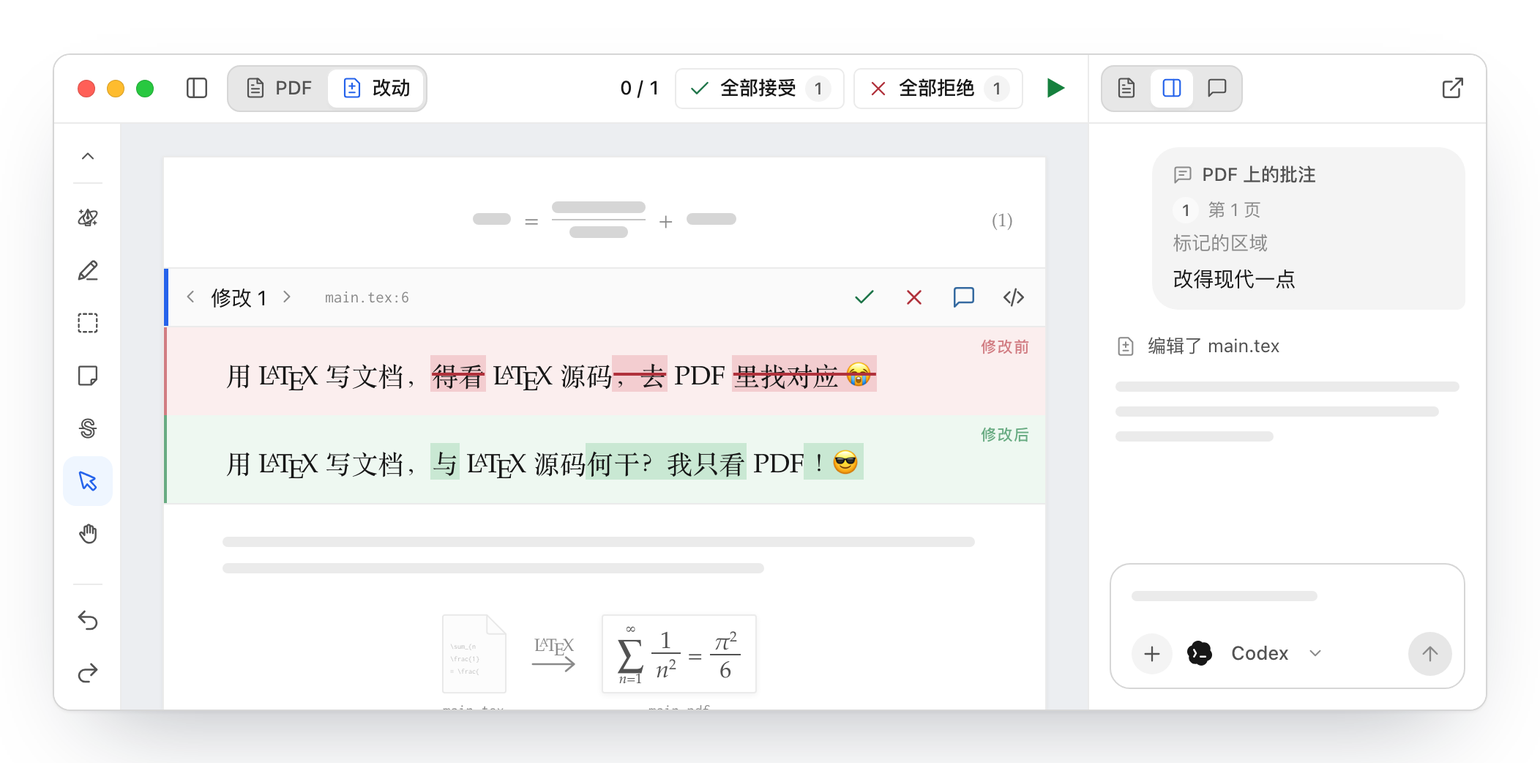
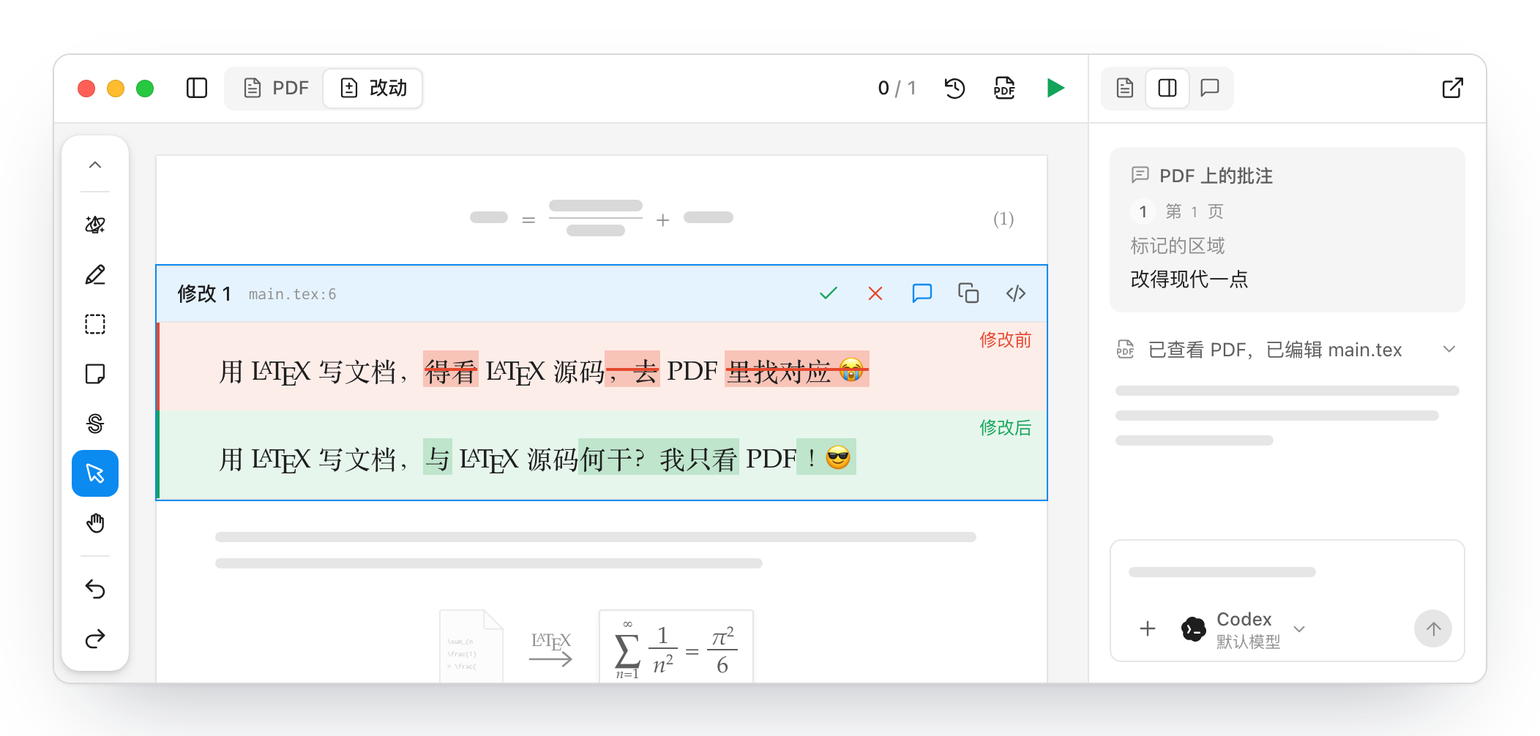
Redraw the homepage windows in the canvas interface (#218)
The homepage's drawn app windows now follow the canvas interface: the workspace palette from theme.css, the marking tools in a floating bar on a grey canvas, segmented controls on a groove, a lone change outlined in blue with its count, history and PDF buttons, notes numbered at their edge, full-width chat messages, folded tool calls and the composer's agent with its model. README showcase images and the social preview are regenerated.

diff --git a/site/style.css b/site/style.css
@@ -56,16 +56,19 @@
 .app-window,.mini{
   /* Use the workspace palette in the page's resolved color scheme, including
      system changes and the no-script page. PDF ink stays softer in the dark. */
-  --bg:light-dark(#ffffff,#26272b);--bg-subtle:light-dark(#fafafa,#2a2b2f);--bg-muted:light-dark(#f4f4f4,#303135);--bg-hover:light-dark(#efefef,#37383c);--bg-active:light-dark(#e7e7e7,#404145);
-  --canvas:light-dark(#eceef1,#1e1f22);--line:light-dark(#ebebeb,#38393e);--line-strong:light-dark(#d6d6d6,#4b4c52);--line-hover:light-dark(#c4c4c4,#63646b);
-  --text:light-dark(#171717,#ececee);--text-2:light-dark(#525252,#c2c3c9);--text-3:light-dark(#8a8a8a,#9c9da5);
-  --accent:light-dark(#2563eb,#8ab4ff);--accent-hover:light-dark(#1d4ed8,#b2ceff);--accent-soft:light-dark(#eff6ff,#2b3651);--accent-line:light-dark(#bfdbfe,#445c85);
-  --button:#2563eb;--button-hover:#1d4ed8;
-  --green:light-dark(#15803d,#7bd5a0);--red:light-dark(#b91c1c,#ff9696);--green-soft:light-dark(#f0fdf4,#243a2f);--red-soft:light-dark(#fef2f2,#46292e);
-  --pdf-page:light-dark(#ffffff,#292929);--pdf-text:light-dark(#171717,#d6d6d6);
-  --before:light-dark(#fbeeee,#432c30);--before-edge:light-dark(#d17c82,#d18a91);--after:light-dark(#eef8f1,#28392d);--after-edge:light-dark(#68ab82,#7bb58e);
-  --deleted:light-dark(#f3cdd0,#683a42);--inserted:light-dark(#c9e8d3,#355b41);
-  --accept:light-dark(#1d7448,#7bd5a0);--reject:light-dark(#b0313b,#ff9696);--comment:light-dark(#356aa0,#8ab4ff);--run:light-dark(#15803d,#7bd5a0);
+  --bg:light-dark(#ffffff,#2c2c2c);--bg-subtle:light-dark(#fafafa,#303030);--bg-muted:light-dark(#f5f5f5,#383838);--bg-hover:light-dark(#f0f0f0,#383838);--bg-active:light-dark(#e6e6e6,#444444);
+  --canvas:light-dark(#f5f5f5,#1e1e1e);--raised:light-dark(#ffffff,#333333);--thumb:light-dark(#ffffff,#4d4d4d);
+  --line:light-dark(#e6e6e6,#444444);--line-strong:light-dark(#d9d9d9,#4d4d4d);--line-hover:light-dark(#c4c4c4,#5e5e5e);
+  --text:light-dark(#1e1e1e,#f0f0f0);--text-2:light-dark(#5e5e5e,#b3b3b3);--text-3:light-dark(#8f8f8f,#8c8c8c);
+  --accent:light-dark(#0b8af0,#3aa6ff);--accent-hover:light-dark(#0a76d1,#6bbcff);--accent-soft:light-dark(#e5f3ff,#1c3a57);--accent-line:light-dark(#b3dbff,#2e5f8c);
+  --button:#0b8af0;--button-hover:#0a76d1;
+  --green:light-dark(#14a35a,#3fc47c);--red:light-dark(#e5482d,#ff7759);--green-soft:light-dark(#e6f6ec,#1e3a2a);--red-soft:light-dark(#fdede9,#47271f);
+  --shadow-sm:0 0 .5px light-dark(rgb(0 0 0/.18),rgb(0 0 0/.6)),0 3px 8px light-dark(rgb(0 0 0/.1),rgb(0 0 0/.35)),0 1px 3px light-dark(rgb(0 0 0/.1),rgb(0 0 0/.35));
+  --page-shadow:0 0 0 1px rgb(0 0 0/.04),0 1px 3px rgb(0 0 0/.08);
+  --pdf-page:light-dark(#ffffff,#292929);--pdf-text:light-dark(#1e1e1e,#d6d6d6);
+  --before:var(--red-soft);--before-edge:var(--red);--after:var(--green-soft);--after-edge:var(--green);
+  --deleted:light-dark(#f8c4b8,#6e3a2d);--inserted:light-dark(#bfe5cc,#2d5a3e);
+  --accept:var(--green);--reject:var(--red);--comment:var(--accent);--run:var(--green);
   --figure-blue:light-dark(#bed0f4,#5675a8);--figure-orange:light-dark(#f2cfae,#b1835e);
   color:var(--text);
 }
@@ -211,44 +214,40 @@ html:is([lang=zh-CN],[lang=zh-Hant]) .hero .review-page :is(del,ins){white-space
 .app-bar .lights{gap:8px}
 .app-bar .lights i{width:12px;height:12px;box-shadow:inset 0 0 0 .5px rgb(0 0 0/.16)}
 .app-top{display:grid;grid-template-columns:minmax(0,1fr) var(--side);flex:none;border-bottom:1px solid var(--line);background:var(--bg);user-select:none;-webkit-user-select:none}
-.app-tb{display:flex;align-items:center;gap:6px;min-width:0;height:46px;padding:0 8px 0 82px;overflow:hidden;font:500 13px/1 var(--sans);color:var(--text-2);white-space:nowrap}
+.app-tb{display:flex;align-items:center;gap:4px;min-width:0;height:46px;padding:0 8px 0 82px;overflow:hidden;font:500 13px/1 var(--sans);color:var(--text);white-space:nowrap}
 .app-tb.side{padding-left:8px;border-left:1px solid var(--line)}
 .tb-space{flex:1;min-width:0}
-.tb-icon{display:grid;flex:none;place-items:center;width:30px;height:30px;border-radius:8px;color:var(--text-2)}
+.tb-icon{display:grid;flex:none;place-items:center;width:30px;height:30px;border-radius:6px;color:var(--text)}
 .tb-icon .ic{width:17px;height:17px}
 .tb-run{color:var(--run)}
 .tb-run .ic{width:19px;height:19px}
-/* A segmented control: the chosen segment is raised, its icon in the accent. */
-.tb-seg{display:inline-flex;flex:none;align-items:center;gap:2px;padding:2px;border:1px solid var(--line-strong);border-radius:9px;background:var(--bg-active)}
-.tb-seg>b{position:relative;display:flex;align-items:center;gap:6px;height:26px;padding:0 9px;border-radius:6px;font-weight:500;color:var(--text-2);transition:background-color .2s,color .2s,box-shadow .2s}
+/* A segmented control: the chosen segment is a white thumb on a grey groove. */
+.tb-seg{display:inline-flex;flex:none;align-items:center;gap:0;padding:2px;border-radius:7px;background:var(--bg-muted)}
+.tb-seg>b{position:relative;display:flex;align-items:center;gap:6px;height:26px;padding:0 10px;border-radius:5px;font-weight:500;color:var(--text-2);transition:background-color .2s,color .2s,box-shadow .2s}
 .tb-seg>b .ic{width:15px;height:15px}
-.tb-seg>b.on{background:var(--bg);color:var(--text);box-shadow:0 1px 2px rgb(0 0 0/.06),0 0 0 1px var(--line)}
-.tb-seg>b.on .ic{color:var(--accent)}
+.tb-seg>b.on{background:var(--thumb);color:var(--text);box-shadow:0 0 0 1px var(--line)}
+.tb-seg>b.on .ic{color:var(--text)}
 .tb-seg.icons>b{padding:0 7px}
 .tb-badge{min-width:18px;height:18px;padding:0 5px;border-radius:999px;background:var(--button);color:#fff;font:600 11px/18px var(--sans);font-style:normal;text-align:center}
 .tb-decide{display:flex;flex:none;align-items:center;gap:6px}
-.tb-count{margin-right:4px;color:var(--text);font-variant-numeric:tabular-nums}
-.tb-action{display:inline-flex;align-items:center;gap:6px;height:28px;padding:0 8px;border:1px solid var(--line);border-radius:5px;background:var(--bg);color:var(--text)}
-.tb-action b{min-width:18px;height:18px;padding:0 5px;border-radius:999px;background:var(--bg-muted);color:var(--text-2);font:500 11.5px/18px var(--sans);text-align:center}
-.tb-accept .ic{color:var(--accept)}
-.tb-reject .ic{color:var(--reject)}
-/* The PDF's marking tools, in a rail at its left edge. */
-.app-rail{display:flex;flex-direction:column;align-items:center;gap:2px;min-height:0;padding:8px 0;overflow:hidden;border-right:1px solid var(--line);background:var(--bg);color:var(--text-2)}
-.app-rail>i,.rail-history>i,.m-tools>i{display:grid;flex:none;place-items:center;width:34px;height:34px;border-radius:9px;transition:background-color .2s,color .2s}
+.tb-count{margin:0 6px;color:var(--text);font-variant-numeric:tabular-nums}
+.tb-count small{font-size:inherit;color:var(--text-3)}
+/* The PDF's marking tools, in a white bar floating at the canvas's left edge. */
+.app-rail{display:flex;flex-direction:column;align-items:center;align-self:start;gap:2px;width:46px;min-height:0;margin:8px 5px;padding:6px 0;overflow:hidden;border-radius:12px;background:var(--raised);box-shadow:var(--shadow-sm);color:var(--text)}
+.app-rail>i,.rail-history>i,.m-tools>i{display:grid;flex:none;place-items:center;width:32px;height:32px;border-radius:8px;transition:background-color .2s,color .2s}
 .app-rail .ic,.m-tools .ic{width:18px;height:18px}
-.app-rail>.rail-collapse{position:relative;height:28px;margin-bottom:9px}
-.app-rail>.rail-collapse::after{content:"";position:absolute;bottom:-5px;left:7px;right:7px;height:1px;background:var(--line)}
+.app-rail>.rail-collapse{position:relative;height:28px;margin-bottom:9px;color:var(--text-2)}
+.app-rail>.rail-collapse::after{content:"";position:absolute;bottom:-5px;left:6px;right:6px;height:1px;background:var(--line)}
 .app-rail>.rail-collapse .ic{width:14px;height:14px}
-.app-rail hr{flex:none;width:20px;height:1px;margin:5px 0;border:0;background:var(--line)}
-.rail-history{display:flex;flex-direction:column;align-items:center;gap:2px;margin-top:auto;padding-top:10px}
-:is(.app-rail,.m-tools) .on{background:var(--accent-soft);color:var(--accent)}
-.app-body{display:grid;grid-template-columns:46px minmax(0,1fr) var(--side)}
+.app-rail hr{flex:none;width:20px;height:1px;margin:4px 0;border:0;background:var(--line)}
+.rail-history{display:flex;flex-direction:column;align-items:center;gap:2px}
+:is(.app-rail,.m-tools) .on{background:var(--button);color:#fff}
+.app-body{display:grid;grid-template-columns:56px minmax(0,1fr) var(--side);background:var(--canvas)}
 /* As the app does in a narrow window: the toolbar's controls lose their
    labels, then the PDF pane loses its rail. */
 @container (max-width:920px){
   .app-tb .tb-label{display:none}
   .app-tb .tb-seg>b{padding:0 8px}
-  .tb-action{padding:0 4px 0 9px}
 }
 @media(min-width:721px){@container (max-width:600px){
   .app-rail{display:none}
@@ -256,17 +255,17 @@ html:is([lang=zh-CN],[lang=zh-Hant]) .hero .review-page :is(del,ins){white-space
   .review-step{display:none}
   .review-number{margin-right:auto}
 }}
-.app-pdf{position:relative;display:flex;flex-direction:column;min-width:0;padding:22px 28px 0;background:var(--canvas)}
+.app-pdf{position:relative;display:flex;flex-direction:column;min-width:0;padding:22px 28px 0 14px;background:var(--canvas)}
 .app-chat{display:flex;flex-direction:column;justify-content:space-between;gap:12px;min-width:0;padding:16px 14px 14px;border-left:1px solid var(--line);background:var(--bg);user-select:none;-webkit-user-select:none}
 /* Phone-only controls: the frosted navigation bar and the floating capsules. */
 .m-nav,.m-decide,.m-tools{display:none}
 /* The opening window's toolbar follows its change: the PDF while nobody has
-   asked, then the changes, with the batch actions while one waits. The tool
+   asked, then the changes, with the count while one waits. The tool
    that draws a box is chosen while a note is being written. */
-.hero .app-window:has(.review-change[data-state=idle]) .tb-pdf,.hero .app-window:not(:has(.review-change[data-state=idle])) .tb-changes{background:var(--bg);color:var(--text);box-shadow:0 1px 2px rgb(0 0 0/.06),0 0 0 1px var(--line)}
-.hero .app-window:has(.review-change[data-state=idle]) .tb-pdf .ic,.hero .app-window:not(:has(.review-change[data-state=idle])) .tb-changes .ic{color:var(--accent)}
+.hero .app-window:has(.review-change[data-state=idle]) .tb-pdf,.hero .app-window:not(:has(.review-change[data-state=idle])) .tb-changes{background:var(--thumb);color:var(--text);box-shadow:0 0 0 1px var(--line)}
+.hero .app-window:has(.review-change[data-state=idle]) .tb-pdf .ic,.hero .app-window:not(:has(.review-change[data-state=idle])) .tb-changes .ic{color:var(--text)}
 .hero .app-window:not(:has(.review-change[data-state=pending])) :is(.tb-decide,.tb-badge){display:none}
-.app-window.marking :is(.app-rail,.m-tools) .rail-region{background:var(--accent-soft);color:var(--accent)}
+.app-window.marking :is(.app-rail,.m-tools) .rail-region{background:var(--button);color:#fff}
 .app-window.marking :is(.app-rail,.m-tools) .rail-select{background:none;color:inherit}
 .m-chat.busy .ic{display:none}
 .m-chat.busy::before{content:"";flex:none;width:12px;height:12px;border:2px solid var(--accent-line);border-top-color:var(--accent);border-radius:50%;animation:spin .8s linear infinite}
@@ -275,16 +274,18 @@ html:is([lang=zh-CN],[lang=zh-Hant]) .hero .review-page :is(del,ins){white-space
 .chat-thread>*{transition:opacity .28s,transform .28s cubic-bezier(.25,.8,.25,1)}
 /* The sent note, as the chat shows it: a heading, then each note's number
    and page, what it marks and the comment. */
-.chat-bubble{align-self:flex-end;width:88%;padding:10px 14px 11px;border-radius:18px 18px 6px 18px;background:var(--bg-muted);font:14px/1.5 var(--sans);color:var(--text)}
+.chat-bubble{padding:10px 14px 12px;border-radius:8px;background:var(--bg-muted);font:13.5px/1.55 var(--sans);color:var(--text)}
 .chat-note-head{display:flex;align-items:center;gap:6px;margin-bottom:6px;font-size:12.5px;font-weight:500;color:var(--text-2)}
 .chat-note-head .ic{width:14px;height:14px;color:var(--text-3)}
-.chat-quote{display:flex;align-items:center;gap:6px;margin-bottom:4px;font:12px/1.4 var(--sans);color:var(--text-3)}
+.chat-quote{display:flex;align-items:center;gap:6px;margin-bottom:4px;font:11.5px/1.4 var(--mono);color:var(--text-3)}
 .chat-quote em{font-style:normal}
-.chat-quote b{flex:none;min-width:18px;height:18px;border-radius:50%;background:var(--bg-subtle);color:var(--text-2);font:500 11px/18px var(--sans);text-align:center}
+.chat-quote b{flex:none;min-width:18px;height:18px;border-radius:50%;background:var(--bg-subtle);color:var(--text-2);font:500 11px/18px var(--sans);font-variant-numeric:tabular-nums;text-align:center}
 .chat-region{display:block;margin-bottom:3px;font-size:13px;font-style:italic;color:var(--text-3)}
 .chat-comment+.chat-quote{margin-top:9px;padding-top:9px;border-top:1px solid var(--line-strong)}
 /* What the agent did, folded to one line, as the chat lists tool calls. */
-.chat-tool{display:flex;align-items:center;gap:8px;padding:0 4px;font:12.5px/1.4 var(--sans);color:var(--text-2)}
+.chat-tool{display:flex;align-items:center;gap:8px;padding:0 4px;font:13px/1.4 var(--sans);color:var(--text-2)}
+.chat-tool>span{min-width:0;overflow:hidden;text-overflow:ellipsis;white-space:nowrap}
+.chat-tool .tool-more{margin-left:auto}
 .chat-tool .ic{width:14px;height:14px;color:var(--text-3)}
 .app-chat[data-step=sent] .chat-tool{display:none}
 /* Notes added to the task wait above the composer until it is sent. */
@@ -308,24 +309,27 @@ html:is([lang=zh-CN],[lang=zh-Hant]) .hero .review-page :is(del,ins){white-space
 .app-chat[data-step=empty] .chat-thread>:not(.chat-old){opacity:0;transform:translateY(8px)}
 .app-chat[data-step=sent] .chat-dots{display:flex}
 .app-chat[data-step=sent] .chat-reply:not(.chat-old) .chat-lines{display:none}
-.chat-composer{padding:12px 8px 8px 14px;border:1px solid var(--line-strong);border-radius:14px;background:var(--bg)}
+.chat-composer{padding:12px 8px 7px 12px;border:1px solid var(--line);border-radius:8px;background:var(--bg)}
 .chat-input{display:flex;align-items:center;min-width:0;min-height:20px;overflow:hidden;white-space:nowrap}
 .chat-input i{flex:none;width:58%}
 .chat-agent.busy i::before{animation:busy 1s ease-in-out infinite}
 @keyframes busy{50%{opacity:.3}}
 /* The composer's footer: attach, the agent with its menu, and send, which
    stays grey until there is something to send. */
-.chat-foot{display:flex;align-items:center;gap:8px;margin-top:14px}
-.chat-plus{display:grid;flex:none;place-items:center;width:28px;height:28px;border-radius:50%;background:var(--bg-muted);color:var(--text-2)}
-.chat-agent{gap:7px;min-width:0;font:500 13px/1 var(--sans);color:var(--text-2);white-space:nowrap}
-.chat-agent b{overflow:hidden;font-weight:500;text-overflow:ellipsis}
+.chat-foot{display:flex;align-items:center;gap:4px;margin-top:14px}
+.chat-plus{display:grid;flex:none;place-items:center;width:26px;height:26px;border-radius:5px;color:var(--text-2)}
+.chat-foot .chat-agent{display:inline-grid;grid-template-columns:auto auto auto;justify-content:start;align-items:center;align-content:center;gap:1px 6px;height:auto;min-height:0;min-width:0;padding:0 4px;font:12.5px/15px var(--sans);color:var(--text-2);white-space:nowrap}
+.chat-agent>i{grid-row:1/3}
+.chat-agent b{grid-column:2;overflow:hidden;font-weight:500;text-overflow:ellipsis}
+.chat-agent small{grid-column:2;overflow:hidden;font-size:11px;line-height:13px;color:var(--text-3);text-overflow:ellipsis}
+.chat-agent>svg{grid-column:3;grid-row:1/3}
 .chat-agent .ic{width:13px;height:13px;color:var(--text-3)}
 .chat-agent.agent i{width:20px;height:20px;border:0;border-radius:0;background:none}
 .chat-agent.agent i::before{width:17px;height:17px}
-.chat-send{display:grid;flex:none;place-items:center;width:30px;height:30px;margin-left:auto;border-radius:50%;background:var(--bg-active);color:var(--text-3);transition:transform .12s,background-color .2s,color .2s}
+.chat-send{display:grid;flex:none;place-items:center;width:26px;height:26px;margin-left:auto;border-radius:50%;background:var(--bg-active);color:var(--text-3);transition:transform .12s,background-color .2s,color .2s}
 .app-chat.ready .chat-send{background:var(--button);color:#fff}
 .chat-send.pressed{transform:scale(.86)}
-.chat-send .ic{width:16px;height:16px}
+.chat-send .ic{width:15px;height:15px}
 /* A pointer that plays one decision while nobody has touched the window. */
 .app-cursor{position:absolute;top:0;left:0;z-index:5;display:none;width:22px;height:22px;opacity:0;pointer-events:none;transition:opacity .2s;will-change:transform;filter:drop-shadow(0 1px 1.5px rgb(0 0 0/.35))}
 .playing .app-cursor{display:block}
@@ -341,7 +345,7 @@ html:is([lang=zh-CN],[lang=zh-Hant]) .hero .review-page :is(del,ins){white-space
 .demo-box.open{display:block}
 .demo-box.draft{border-style:dashed}
 .demo-box.gone{opacity:0}
-.demo-box[data-n]:not(.draft)::before{content:attr(data-n);position:absolute;top:-10px;left:-10px;min-width:19px;height:19px;padding:0 4px;border-radius:6px;background:var(--button);color:#fff;font:600 11px/19px var(--sans);text-align:center}
+.demo-box[data-n]:not(.draft)::before{content:attr(data-n);position:absolute;top:50%;left:-15px;width:20px;height:20px;border-radius:50%;background:var(--button);color:#fff;font:600 11px/20px var(--sans);text-align:center;transform:translateY(-50%)}
 .demo-note{position:absolute;z-index:4;display:none;align-items:center;gap:8px;padding:5px 5px 5px 14px;border:1px solid var(--line);border-radius:14px;background:var(--bg);box-shadow:0 14px 32px -12px rgb(15 23 42/.36);font:14px/1.5 var(--sans);color:var(--text);transform-origin:0 0}
 .demo-note.open{display:flex;animation:pop .16s ease-out}
 @keyframes pop{from{opacity:0;transform:translateY(-3px) scale(.96)}}
@@ -359,7 +363,7 @@ html:is([lang=zh-CN],[lang=zh-Hant]) .hero .review-page :is(del,ins){white-space
    before and after (a coloured edge and a corner label on each) and its LaTeX
    source on request. Deciding resolves it as the viewer does: the side that
    goes folds away, and the one that stays loses its marks. */
-.review-page{display:flex;flex:1;flex-direction:column;padding-top:26px;border:1px solid var(--line);border-bottom:0;background:var(--pdf-page);box-shadow:0 1px 3px rgb(15 23 42/.06);font:400 clamp(15px,1.5vw,18px)/1.55 var(--serif);color:var(--pdf-text)}
+.review-page{display:flex;flex:1;flex-direction:column;padding-top:26px;background:var(--pdf-page);box-shadow:var(--page-shadow);font:400 clamp(15px,1.5vw,18px)/1.55 var(--serif);color:var(--pdf-text)}
 .sheet-lines{display:grid;align-content:start;gap:11px;padding:0 48px 0 40px}
 .sheet-lines i{height:7px;border-radius:4px;background:var(--line)}
 .sheet-lines:first-child{margin-bottom:22px}
@@ -419,33 +423,33 @@ html:is([lang=zh-CN],[lang=zh-Hant]) .hero .review-page :is(del,ins){white-space
 .after .second,.scene-rule{display:block;text-align:center;text-indent:0}
 .after .second ins{display:inline-block;padding:6px 12px}
 .review-change{position:relative;cursor:pointer;border-block:1px solid var(--line);transition:border-color .35s,box-shadow .35s}
-.review-change.current{cursor:auto;box-shadow:inset 0 0 0 1px var(--accent-line)}
+.review-change.current{z-index:1;cursor:auto;box-shadow:0 0 0 1px var(--accent)}
 /* Before anyone asks, the change is only its first side, as plain text, and
    once decided it is only the side that stays: no header, no frame. Clicking
    a decided change opens it for review again. */
 .review-change:not([data-state=pending]){border-color:transparent;box-shadow:none}
 .review-change:is([data-state=accepted],[data-state=rejected]){cursor:pointer}
-.review-head{display:flex;align-items:center;gap:2px;min-height:40px;padding:4px 6px;border-bottom:1px solid var(--line);background:var(--bg-subtle);font:14px/1.4 var(--sans);color:var(--text-2);white-space:nowrap}
-.review-change.current .review-head{box-shadow:inset 3px 0 var(--accent)}
-/* The viewer's header: the change between its neighbours' arrows, where its
-   source is, and its actions as icons. */
-.review-step{display:grid;flex:none;place-items:center;width:24px;height:28px;color:var(--text-3)}
+.review-head{display:flex;align-items:center;gap:2px;min-height:38px;padding:3px 6px 3px 14px;border-bottom:1px solid var(--line);background:var(--bg);font:13.5px/1.4 var(--sans);color:var(--text-2);white-space:nowrap}
+.review-change.current .review-head{background:var(--accent-soft);color:var(--text)}
+/* The viewer's header: the change, where its source is, and its actions as
+   icons. A lone change has no neighbours to step to. */
+.review-step{display:none}
 .review-step .ic{width:14px;height:14px}
-.review-number{color:var(--text)}
-.review-where{min-width:0;margin:0 auto 0 12px;overflow:hidden;font:11.5px var(--mono);color:var(--text-3);text-overflow:ellipsis}
-.review-head :is(button,a){display:inline-grid;flex:none;place-items:center;width:32px;height:28px;border-radius:7px;text-decoration:none;transition:background-color .15s}
+.review-number{font-weight:500;color:var(--text)}
+.review-where{min-width:0;margin:0 auto 0 10px;overflow:hidden;font:12px var(--mono);color:var(--text-3);text-overflow:ellipsis}
+.review-head :is(button,a,.review-copy){display:inline-grid;flex:none;place-items:center;width:30px;height:28px;border-radius:5px;text-decoration:none;transition:background-color .15s}
 .review-head :is(button,a):hover{background:var(--bg-hover);text-decoration:none}
-.review-head :is(button,a) .ic{width:17px;height:17px}
+.review-head :is(button,a,.review-copy) .ic{width:16px;height:16px}
 .review-accept{color:var(--accept)}
 .review-reject{color:var(--reject)}
 .review-comment{color:var(--comment)}
-.review-latex{color:var(--text-2)}
+.review-latex,.review-copy{color:var(--text-2)}
 .review-latex[aria-expanded=true]{background:var(--bg-active);color:var(--text)}
 .review-side{position:relative;padding:18px 48px 14px 40px;border-left:2px solid;transition:background-color .35s,border-color .35s}
 .folding{overflow:hidden}
 .review-side.before{background:var(--before);border-left-color:var(--before-edge)}
 .review-side.after{background:var(--after);border-left-color:var(--after-edge)}
-.review-label{position:absolute;top:8px;right:10px;font:500 10.5px/1 var(--sans);letter-spacing:.08em;text-transform:uppercase;color:var(--before-edge);transition:opacity .3s}
+.review-label{position:absolute;top:6px;right:10px;font:12px/1 var(--sans);color:var(--before-edge);transition:opacity .3s}
 .after .review-label{color:var(--after-edge)}
 .review-page :is(del,ins){padding:0 1px;-webkit-box-decoration-break:clone;box-decoration-break:clone}
 .review-side del{background:var(--deleted);color:inherit;text-decoration:line-through;text-decoration-color:var(--reject);text-decoration-thickness:1.5px}
@@ -662,7 +666,7 @@ html:is([lang=zh-CN],[lang=zh-Hant]) .hero .review-page :is(del,ins){white-space
 .scene-art{display:contents}
 .scene{--side:232px}
 .scene .app-body{height:430px}
-.scene .app-pdf{padding:20px 20px 0;overflow:hidden}
+.scene .app-pdf{padding:20px 16px 0 8px;overflow:hidden}
 .scene .review-page{padding-top:22px;font-size:15px}
 .scene .sheet-lines,.scene .sheet-head{padding:0 26px}
 .scene .sheet-eq{padding:4px 40px}
@@ -675,14 +679,16 @@ html:is([lang=zh-CN],[lang=zh-Hant]) .hero .review-page :is(del,ins){white-space
 .scene .review-side{padding:18px 48px 12px 24px}
 .scene .review-head{min-height:36px;font-size:12.5px}
 .scene .review-head{padding-block:3px}
-.scene .review-head>i:not(.review-step){display:inline-grid;flex:none;place-items:center;width:28px;height:26px;border-radius:7px}
+.scene .review-head>i:not(.review-step){display:inline-grid;flex:none;place-items:center;width:27px;height:26px;border-radius:5px}
 .scene .review-head>i .ic{width:16px;height:16px}
 .scene .review-where{display:none}
-.scene .review-number+.review-step{margin-right:auto}
+.scene .review-number{margin-right:auto}
 .scene .app-chat{gap:12px;padding:14px 12px 12px}
 .scene .chat-thread{flex:1;gap:12px;min-height:0;overflow:hidden}
-.scene .chat-bubble{width:92%;font-size:13px}
+.scene .chat-bubble{font-size:13px}
 .scene .chat-quote em{font-size:12px}
+/* The narrower panels name only the agent, as the picker does when space runs out. */
+.scene .chat-agent small{display:none}
 .scene .chat-comment+.chat-quote{margin-top:8px}
 .scene-text{position:relative;margin:0 26px 16px;text-wrap:pretty}
 /* A figure: a bar chart with its legend in the top left, and a caption. */
@@ -696,7 +702,7 @@ html:is([lang=zh-CN],[lang=zh-Hant]) .hero .review-page :is(del,ins){white-space
 .figure-caption{display:block;width:38%;height:7px;margin:10px auto 0;border-radius:4px;background:var(--line)}
 /* Earlier messages are bars; review feedback waits in a bar above the
    composer until it is sent. */
-.chat-bubble.chat-old{display:grid;gap:8px;width:70%;padding:11px 13px}
+.chat-bubble.chat-old{display:grid;gap:8px;padding:11px 13px}
 .chat-old i,.chat-old .chat-lines i{display:block;height:7px;border-radius:4px;background:var(--line)}
 .chat-reply.chat-old .chat-lines i{background:var(--line)}
 /* Review feedback waits in the composer, as the app keeps it, until send. */
@@ -711,7 +717,7 @@ html:is([lang=zh-CN],[lang=zh-Hant]) .hero .review-page :is(del,ins){white-space
 .draft-where b{min-width:17px;height:17px;border-radius:5px;background:var(--bg-muted);font:500 10px/17px var(--sans);text-align:center}
 .draft-where em{padding:1px 5px;border-radius:4px;background:var(--bg-muted);font-style:normal;font-weight:500;color:var(--text-2)}
 .draft-text{font-size:13px;color:var(--text)}
-.tb-tab{display:inline-flex;align-items:center;gap:6px;height:30px;padding:0 10px;border-radius:8px;background:var(--bg-muted);color:var(--text)}
+.tb-tab{display:inline-flex;align-items:center;gap:6px;height:30px;padding:0 6px;color:var(--text)}
 .tb-tab .ic{width:15px;height:15px}
 .tb-picked:empty{display:none}
 .review-head .pressed{background:var(--bg-hover)}
@@ -733,22 +739,22 @@ html:is([lang=zh-CN],[lang=zh-Hant]) .hero .review-page :is(del,ins){white-space
 .git-branch .ic{width:14px;height:14px;color:var(--text-3)}
 .git-branch code{color:var(--text)}
 .git-ahead{padding:0 6px;border-radius:999px;background:var(--accent-soft);color:var(--accent);font:500 11.5px/18px var(--sans)}
-.git-pushed{display:flex;align-items:center;gap:7px;margin:10px 10px 0;padding:7px 10px;border-radius:9px;background:var(--green-soft);font-size:12.5px;color:var(--green);animation:chat-in .25s ease-out}
+.git-pushed{display:flex;align-items:center;gap:7px;margin:10px 10px 0;padding:7px 10px;border-radius:6px;background:var(--green-soft);font-size:12.5px;color:var(--green);animation:chat-in .25s ease-out}
 .git-pushed .ic{width:14px;height:14px}
-.git-box{margin:10px 10px 6px;padding:9px 6px 6px 10px;border:1px solid var(--line-strong);border-radius:12px}
+.git-box{margin:10px 10px 6px;padding:9px 6px 6px 10px;border:1px solid var(--line);border-radius:8px}
 .git-message{display:flex;min-height:36px;padding-right:4px}
 .git-typed{overflow:hidden;color:var(--text);white-space:nowrap;text-overflow:ellipsis}
 .git-hint{overflow:hidden;color:var(--text-3);white-space:nowrap;text-overflow:ellipsis}
 .git-message.filled .git-hint{display:none}
 .git-message.busy .git-hint{animation:busy 1s ease-in-out infinite}
 .git-bar{display:flex;align-items:center;gap:6px}
-.git-spark{display:grid;flex:none;place-items:center;width:28px;height:28px;border-radius:8px;color:var(--text-2);transition:background-color .1s}
+.git-spark{display:grid;flex:none;place-items:center;width:28px;height:28px;border-radius:5px;color:var(--text-2);transition:background-color .1s}
 .git-spark.pressed{background:var(--bg-hover)}
-.git-split{display:flex;margin-left:auto;border-radius:8px;background:var(--button);color:#fff;transition:background-color .2s,color .2s}
+.git-split{display:flex;margin-left:auto;border-radius:5px;background:var(--button);color:#fff;transition:background-color .2s,color .2s}
 .git-commit{display:flex;align-items:center;gap:6px;height:30px;padding:0 11px;border-right:1px solid rgb(255 255 255/.25);font-weight:500;transition:background-color .1s}
 .git-commit .ic,.git-more .ic{width:14px;height:14px}
 .git-commit em{font-style:normal;opacity:.85}
-.git-commit.pressed{background:var(--button-hover);border-radius:8px 0 0 8px}
+.git-commit.pressed{background:var(--button-hover);border-radius:5px 0 0 5px}
 .git-more{display:grid;place-items:center;width:28px}
 .git-commit>span{display:none;align-items:center;gap:6px}
 .scene[data-step=staged] .git-to-commit,.scene[data-step=committed] .git-to-sync,.scene[data-step=pushed] .git-synced{display:flex}
@@ -860,7 +866,6 @@ html:is([lang=zh-CN],[lang=zh-Hant]) .hero .review-page :is(del,ins){white-space
   .app-tb{height:44px;padding:0 8px}
   :is(.app-tb.side,.tb-sidebar,.app-tb .tb-run,.app-tb .tb-label){display:none}
   .app-tb .tb-seg>b{padding:0 8px}
-  .tb-action{padding:0 4px 0 9px}
   .app-body{grid-template-columns:minmax(0,1fr)}
   .app-rail{display:none}
   .app-pdf{padding:14px 12px 0}

diff --git a/site/index.html b/site/index.html
@@ -138,7 +138,8 @@
           <i class="tb-icon tb-sidebar"><svg class="ic"><use href="#i-sidebar"/></svg></i>
           <span class="tb-seg"><b class="tb-pdf"><svg class="ic"><use href="#i-paper"/></svg><span class="tb-label">PDF</span></b><b class="tb-changes"><svg class="ic"><use href="#i-diff"/></svg><span class="tb-label"><span lang="en">Changes</span><span lang="zh-CN">改动</span></span></b></span>
           <span class="tb-space"></span>
-          <span class="tb-decide"><span class="tb-count">0 / 1</span><span class="tb-action tb-accept"><svg class="ic"><use href="#i-check"/></svg><span class="tb-label"><span lang="en">Accept all</span><span lang="zh-CN">全部接受</span></span><b>1</b></span><span class="tb-action tb-reject"><svg class="ic"><use href="#i-close"/></svg><span class="tb-label"><span lang="en">Reject all</span><span lang="zh-CN">全部拒绝</span></span><b>1</b></span></span>
+          <span class="tb-decide"><span class="tb-count">0 <small>/ 1</small></span></span>
+          <i class="tb-icon"><svg class="ic"><use href="#i-restore"/></svg></i><i class="tb-icon"><svg class="ic"><use href="#i-pdf"/></svg></i>
           <i class="tb-icon tb-run"><svg class="ic"><use href="#i-compile"/></svg></i>
         </div>
         <div class="app-tb side"><span class="tb-seg icons"><b><svg class="ic"><use href="#i-paper"/></svg></b><b class="on"><svg class="ic"><use href="#i-split"/></svg></b><b><svg class="ic"><use href="#i-chat"/></svg></b></span><span class="tb-space"></span><i class="tb-icon"><svg class="ic"><use href="#i-external"/></svg></i></div>
@@ -154,6 +155,7 @@
                 <button class="review-accept" type="button"><svg class="ic"><use href="#i-check"/></svg><span class="sr"><span lang="en">Accept</span><span lang="zh-CN">接受</span></span></button>
                 <button class="review-reject" type="button"><svg class="ic"><use href="#i-close"/></svg><span class="sr"><span lang="en">Reject</span><span lang="zh-CN">拒绝</span></span></button>
                 <a class="review-comment" href="https://github.com/PapilotAI/papilot/discussions" title="Discuss Papilot on GitHub" data-zh-title="在 GitHub 上讨论 Papilot"><svg class="ic"><use href="#i-chat"/></svg><span class="sr"><span lang="en">Comment</span><span lang="zh-CN">评论</span></span></a>
+                <i class="review-copy" aria-hidden="true"><svg class="ic"><use href="#i-copy"/></svg></i>
                 <button class="review-latex" type="button" aria-expanded="false" aria-controls="review-source-1" title="Show LaTeX source" data-zh-title="显示 LaTeX 源码"><svg class="ic"><use href="#i-code"/></svg><span class="sr">LaTeX</span></button>
               </div>
               <div class="review-side before" aria-hidden="true">
@@ -182,13 +184,13 @@
               <span class="chat-region"><span lang="en">Marked region</span><span lang="zh-CN">标记的区域</span></span>
               <p class="chat-comment"><span lang="en">Make it more modern</span><span lang="zh-CN">改得现代一点</span></p>
             </div>
-            <p class="chat-tool"><svg class="ic"><use href="#i-diff"/></svg><span lang="en">Edited main.tex</span><span lang="zh-CN">编辑了 main.tex</span></p>
+            <p class="chat-tool"><svg class="ic"><use href="#i-pdf"/></svg><span lang="en">Viewed the PDF, edited main.tex</span><span lang="zh-CN">查看了 PDF，编辑了 main.tex</span><svg class="ic tool-more"><use href="#i-chevron-down"/></svg></p>
             <div class="chat-reply"><span class="chat-dots"><i></i><i></i><i></i></span><span class="chat-lines"><i style="width:100%"></i><i style="width:94%"></i><i style="width:46%"></i></span></div>
           </div>
           <div class="chat-picked"><span class="picked"><b>1</b><em><span lang="en">Page 1</span><span lang="zh-CN">第 1 页</span></em><span></span></span></div>
           <div class="chat-composer">
             <span class="chat-input"><i></i></span>
-            <span class="chat-foot"><i class="chat-plus"><svg class="ic"><use href="#i-plus"/></svg></i><span class="chat-agent agent codex"><i></i><b>Codex</b><svg class="ic"><use href="#i-chevron-down"/></svg></span><span class="chat-send"><svg class="ic"><use href="#i-arrow-up"/></svg></span></span>
+            <span class="chat-foot"><i class="chat-plus"><svg class="ic"><use href="#i-plus"/></svg></i><span class="chat-agent agent codex"><i></i><b>Codex</b><small><span lang="en">Default model</span><span lang="zh-CN">默认模型</span></small><svg class="ic"><use href="#i-chevron-down"/></svg></span><span class="chat-send"><svg class="ic"><use href="#i-arrow-up"/></svg></span></span>
           </div>
         </div>
       </div>
@@ -398,7 +400,7 @@ progress and preservation.</pre></div>
               <div class="chat-picked"><span class="picked"><b>1</b><em><span lang="en">Page 2</span><span lang="zh-CN">第 2 页</span></em><span></span></span><span class="picked"><b>2</b><em><span lang="en">Page 2</span><span lang="zh-CN">第 2 页</span></em><span></span></span></div>
               <div class="chat-composer">
                 <span class="chat-input"><i></i></span>
-                <span class="chat-foot"><i class="chat-plus"><svg class="ic"><use href="#i-plus"/></svg></i><span class="chat-agent agent claude"><i></i><b>Claude</b><svg class="ic"><use href="#i-chevron-down"/></svg></span><span class="chat-send"><svg class="ic"><use href="#i-arrow-up"/></svg></span></span>
+                <span class="chat-foot"><i class="chat-plus"><svg class="ic"><use href="#i-plus"/></svg></i><span class="chat-agent agent claude"><i></i><b>Claude</b><small><span lang="en">Default model</span><span lang="zh-CN">默认模型</span></small><svg class="ic"><use href="#i-chevron-down"/></svg></span><span class="chat-send"><svg class="ic"><use href="#i-arrow-up"/></svg></span></span>
               </div>
             </div>
           </div>
@@ -420,7 +422,7 @@ progress and preservation.</pre></div>
           <div class="app-bar"><span class="lights"><i></i><i></i><i></i></span></div>
           <div class="app-top">
             <div class="m-nav"><i class="tb-icon"><svg class="ic"><use href="#i-menu"/></svg></i><span class="tb-seg"><b class="seg-pdf"><svg class="ic"><use href="#i-paper"/></svg><span lang="en">Review</span><span lang="zh-CN">审阅</span><em class="tb-badge">1</em></b><b class="seg-side"><svg class="ic"><use href="#i-chat"/></svg><span lang="en">Chat</span><span lang="zh-CN">对话</span></b></span><span class="tb-space"></span><i class="tb-icon tb-run"><svg class="ic"><use href="#i-compile"/></svg></i></div>
-            <div class="app-tb"><i class="tb-icon tb-sidebar"><svg class="ic"><use href="#i-sidebar"/></svg></i><span class="tb-seg"><b><svg class="ic"><use href="#i-paper"/></svg><span class="tb-label">PDF</span></b><b class="on"><svg class="ic"><use href="#i-diff"/></svg><span class="tb-label"><span lang="en">Changes</span><span lang="zh-CN">改动</span></span></b></span><span class="tb-space"></span><span class="tb-count">0 / 1</span><i class="tb-icon tb-run"><svg class="ic"><use href="#i-compile"/></svg></i></div>
+            <div class="app-tb"><i class="tb-icon tb-sidebar"><svg class="ic"><use href="#i-sidebar"/></svg></i><span class="tb-seg"><b><svg class="ic"><use href="#i-paper"/></svg><span class="tb-label">PDF</span></b><b class="on"><svg class="ic"><use href="#i-diff"/></svg><span class="tb-label"><span lang="en">Changes</span><span lang="zh-CN">改动</span></span></b></span><span class="tb-space"></span><span class="tb-count">0 <small>/ 1</small></span><i class="tb-icon"><svg class="ic"><use href="#i-restore"/></svg></i><i class="tb-icon tb-run"><svg class="ic"><use href="#i-compile"/></svg></i></div>
             <div class="app-tb side"><span class="tb-seg icons"><b><svg class="ic"><use href="#i-paper"/></svg></b><b class="on"><svg class="ic"><use href="#i-split"/></svg></b><b><svg class="ic"><use href="#i-chat"/></svg></b></span><span class="tb-space"></span><i class="tb-icon"><svg class="ic"><use href="#i-external"/></svg></i></div>
           </div>
           <div class="app-body">
@@ -432,7 +434,7 @@ progress and preservation.</pre></div>
                 <article class="review-change current" data-state="pending">
                   <div class="review-head">
                     <i class="review-step"><svg class="ic"><use href="#i-chevron-left"/></svg></i><span class="review-number"><span lang="en">Change 1</span><span lang="zh-CN">修改 1</span></span><i class="review-step"><svg class="ic"><use href="#i-chevron-right"/></svg></i><code class="review-where">main.tex:42</code>
-                    <i class="review-accept"><svg class="ic"><use href="#i-check"/></svg></i><i class="review-reject"><svg class="ic"><use href="#i-close"/></svg></i><i class="review-comment"><svg class="ic"><use href="#i-chat"/></svg></i><i class="review-latex"><svg class="ic"><use href="#i-code"/></svg></i>
+                    <i class="review-accept"><svg class="ic"><use href="#i-check"/></svg></i><i class="review-reject"><svg class="ic"><use href="#i-close"/></svg></i><i class="review-comment"><svg class="ic"><use href="#i-chat"/></svg></i><i class="review-copy"><svg class="ic"><use href="#i-copy"/></svg></i><i class="review-latex"><svg class="ic"><use href="#i-code"/></svg></i>
                   </div>
                   <div class="review-side before">
                     <span class="review-label"><span lang="en">Before</span><span lang="zh-CN">修改前</span></span>
@@ -461,7 +463,7 @@ progress and preservation.</pre></div>
               <div class="chat-composer">
                 <div class="chat-draft"><p class="draft-head"><svg class="ic"><use href="#i-chat"/></svg><b><span lang="en">Review feedback</span><span lang="zh-CN">审阅反馈</span></b><span><span lang="en">1 comment</span><span lang="zh-CN">1 条评论</span></span></p><p class="draft-note"><span class="draft-where"><b>1</b><em><span lang="en">Whole change</span><span lang="zh-CN">整处修改</span></em></span><span class="draft-text"></span></p></div>
                 <span class="chat-input"><i></i></span>
-                <span class="chat-foot"><i class="chat-plus"><svg class="ic"><use href="#i-plus"/></svg></i><span class="chat-agent agent codex"><i></i><b>Codex</b><svg class="ic"><use href="#i-chevron-down"/></svg></span><span class="chat-send"><svg class="ic"><use href="#i-arrow-up"/></svg></span></span>
+                <span class="chat-foot"><i class="chat-plus"><svg class="ic"><use href="#i-plus"/></svg></i><span class="chat-agent agent codex"><i></i><b>Codex</b><small><span lang="en">Default model</span><span lang="zh-CN">默认模型</span></small><svg class="ic"><use href="#i-chevron-down"/></svg></span><span class="chat-send"><svg class="ic"><use href="#i-arrow-up"/></svg></span></span>
               </div>
             </div>
           </div>

diff --git a/CHANGELOG.md b/CHANGELOG.md
@@ -23,6 +23,7 @@ Notable changes to Papilot, newest first. The format follows [Keep a Changelog](
 
 ### Changed
 
+- Redraw the homepage's app windows, the README showcase and the social preview in the canvas interface: the PDF on a grey canvas with the marking tools in a floating bar, a change outlined in blue with its count, history and PDF buttons in the toolbar, notes numbered in the page margin, full-width chat messages and the composer's agent and model.
 - **A new Papilot icon.** Navy and blue capsules split by a coral line replace the pen nib in the desktop app, browser tabs, the home-screen icon, the workspace, Settings, the Mac installer and the website. In the dark theme the workspace and Settings draw the navy capsules light, and at 16 to 32 px a three-stripe cut keeps the mark legible.
 - Continue compiling after recoverable LaTeX errors and show the resulting PDF with its diagnostics in task reviews, full and retained PDFs, accepted PDFs, Git comparisons and agent reviews. Diagnostics follow the PDF actually displayed, including errors found only during a full-document build after a clean chapter comparison. Fatal errors still fail the build, including when XeLaTeX leaves a truncated PDF. Set `"halt_on_error": true` in the document's `.git/papilot/settings.json` to stop at the first error. Stale generated list and navigation files still trigger an automatic clean rebuild in either mode.
 - Refresh the Mac installer with a minimal PDF diff and annotation: a blue connector guides the Papilot icon from the selected paper region into Applications inside its note. Use the current “Next-Generation AI LaTeX Editor” tagline.
